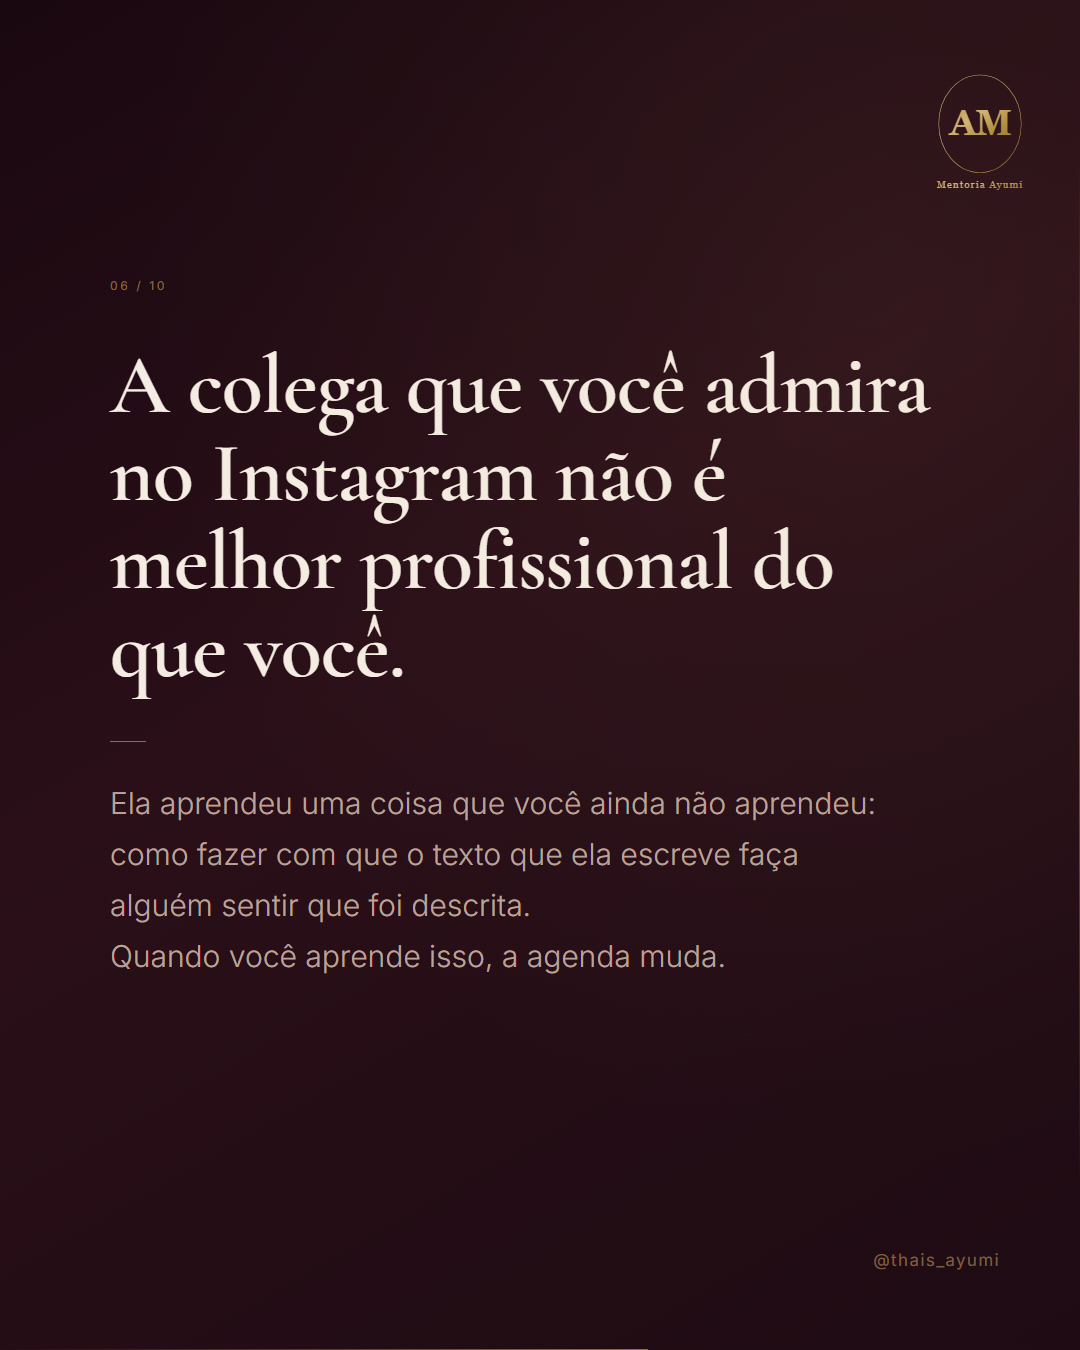
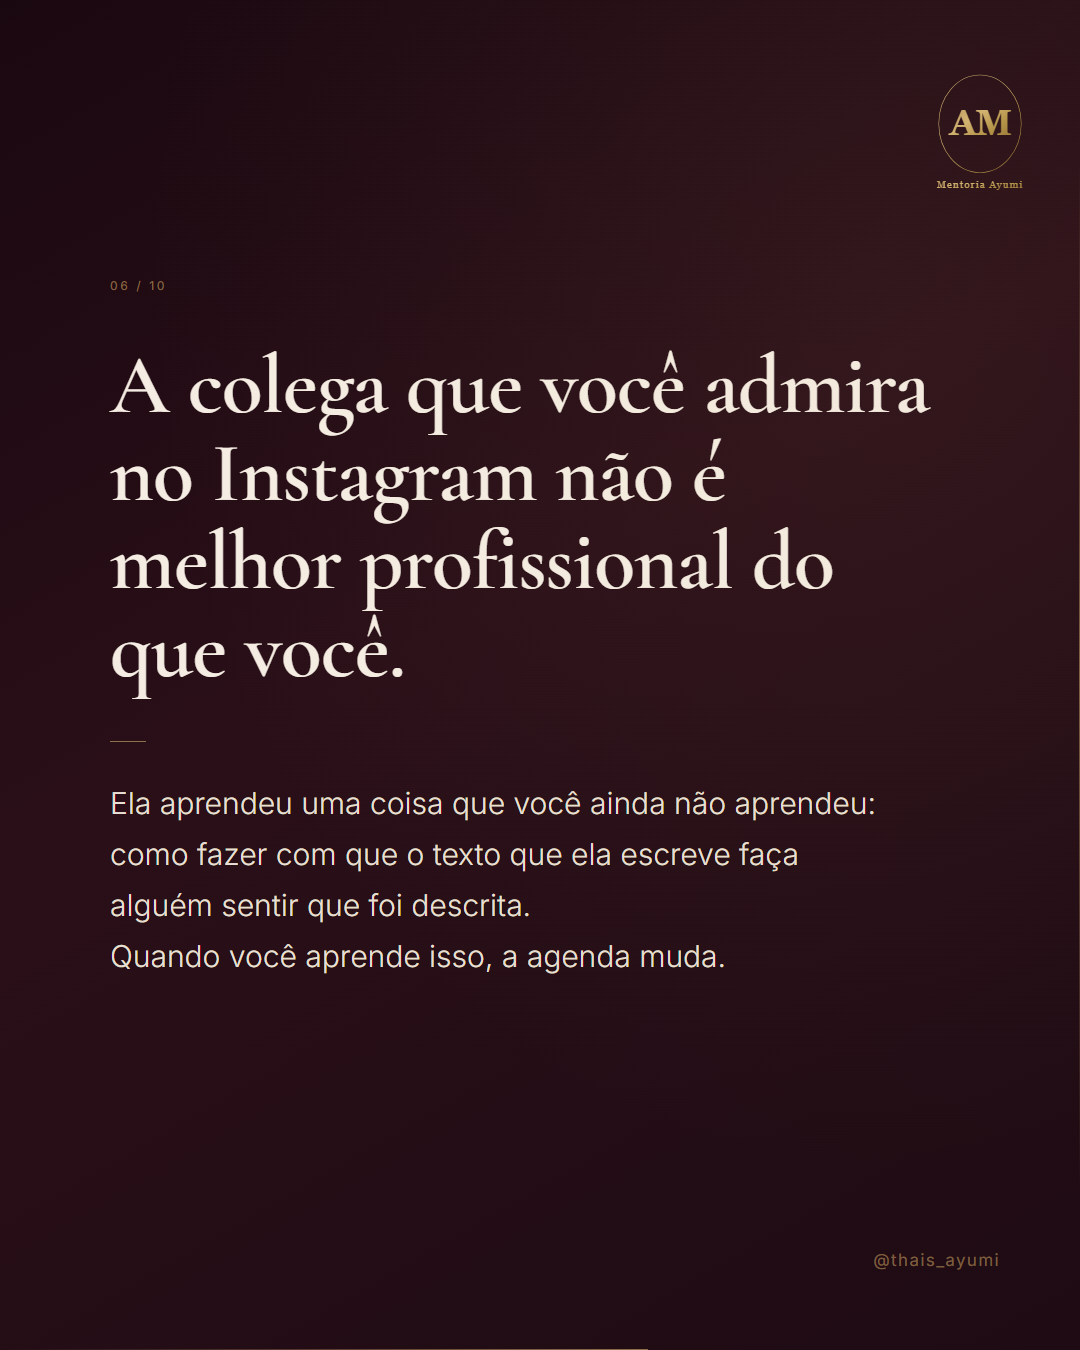
feat: ego-fraco v6 (5 imagens), ayumi texto mais branco, regras viralidade nos sistemas

Changed region(s): [[0.0917, 0.5911, 0.7944, 0.7156], [0.4889, 0.6844, 0.6722, 0.7156]]

diff --git a/carrosseis/index.html b/carrosseis/index.html
@@ -89,21 +89,21 @@ Grupo VIP aberto. Link na bio.
 <!-- ══════════════════════════════════════════════════ -->
 <div class="carrossel" id="ego-fragil">
   <div class="carrossel-header">
-    <h2>@cesaraugustoo__ — Ego Frágil</h2>
-    <button class="btn-todos" onclick="baixarTodos('ego-fragil-v5', 11)">Baixar todos</button>
+    <h2>@cesaraugustoo__ — Ego Fraco v6</h2>
+    <button class="btn-todos" onclick="baixarTodos('ego-fragil-v6', 11)">Baixar todos</button>
   </div>
   <div class="grid">
-    <div class="card"><span class="num">01</span><img src="ego-fragil-v5/slide-01.png" loading="lazy"><a class="btn-dl" href="ego-fragil-v5/slide-01.png" download>Baixar</a></div>
-    <div class="card"><span class="num">02</span><img src="ego-fragil-v5/slide-02.png" loading="lazy"><a class="btn-dl" href="ego-fragil-v5/slide-02.png" download>Baixar</a></div>
-    <div class="card"><span class="num">03</span><img src="ego-fragil-v5/slide-03.png" loading="lazy"><a class="btn-dl" href="ego-fragil-v5/slide-03.png" download>Baixar</a></div>
-    <div class="card"><span class="num">04</span><img src="ego-fragil-v5/slide-04.png" loading="lazy"><a class="btn-dl" href="ego-fragil-v5/slide-04.png" download>Baixar</a></div>
-    <div class="card"><span class="num">05</span><img src="ego-fragil-v5/slide-05.png" loading="lazy"><a class="btn-dl" href="ego-fragil-v5/slide-05.png" download>Baixar</a></div>
-    <div class="card"><span class="num">06</span><img src="ego-fragil-v5/slide-06.png" loading="lazy"><a class="btn-dl" href="ego-fragil-v5/slide-06.png" download>Baixar</a></div>
-    <div class="card"><span class="num">07</span><img src="ego-fragil-v5/slide-07.png" loading="lazy"><a class="btn-dl" href="ego-fragil-v5/slide-07.png" download>Baixar</a></div>
-    <div class="card"><span class="num">08</span><img src="ego-fragil-v5/slide-08.png" loading="lazy"><a class="btn-dl" href="ego-fragil-v5/slide-08.png" download>Baixar</a></div>
-    <div class="card"><span class="num">09</span><img src="ego-fragil-v5/slide-09.png" loading="lazy"><a class="btn-dl" href="ego-fragil-v5/slide-09.png" download>Baixar</a></div>
-    <div class="card"><span class="num">10</span><img src="ego-fragil-v5/slide-10.png" loading="lazy"><a class="btn-dl" href="ego-fragil-v5/slide-10.png" download>Baixar</a></div>
-    <div class="card"><span class="num">11</span><img src="ego-fragil-v5/slide-11.png" loading="lazy"><a class="btn-dl" href="ego-fragil-v5/slide-11.png" download>Baixar</a></div>
+    <div class="card"><span class="num">01</span><img src="ego-fragil-v6/slide-01.png" loading="lazy"><a class="btn-dl" href="ego-fragil-v6/slide-01.png" download>Baixar</a></div>
+    <div class="card"><span class="num">02</span><img src="ego-fragil-v6/slide-02.png" loading="lazy"><a class="btn-dl" href="ego-fragil-v6/slide-02.png" download>Baixar</a></div>
+    <div class="card"><span class="num">03</span><img src="ego-fragil-v6/slide-03.png" loading="lazy"><a class="btn-dl" href="ego-fragil-v6/slide-03.png" download>Baixar</a></div>
+    <div class="card"><span class="num">04</span><img src="ego-fragil-v6/slide-04.png" loading="lazy"><a class="btn-dl" href="ego-fragil-v6/slide-04.png" download>Baixar</a></div>
+    <div class="card"><span class="num">05</span><img src="ego-fragil-v6/slide-05.png" loading="lazy"><a class="btn-dl" href="ego-fragil-v6/slide-05.png" download>Baixar</a></div>
+    <div class="card"><span class="num">06</span><img src="ego-fragil-v6/slide-06.png" loading="lazy"><a class="btn-dl" href="ego-fragil-v6/slide-06.png" download>Baixar</a></div>
+    <div class="card"><span class="num">07</span><img src="ego-fragil-v6/slide-07.png" loading="lazy"><a class="btn-dl" href="ego-fragil-v6/slide-07.png" download>Baixar</a></div>
+    <div class="card"><span class="num">08</span><img src="ego-fragil-v6/slide-08.png" loading="lazy"><a class="btn-dl" href="ego-fragil-v6/slide-08.png" download>Baixar</a></div>
+    <div class="card"><span class="num">09</span><img src="ego-fragil-v6/slide-09.png" loading="lazy"><a class="btn-dl" href="ego-fragil-v6/slide-09.png" download>Baixar</a></div>
+    <div class="card"><span class="num">10</span><img src="ego-fragil-v6/slide-10.png" loading="lazy"><a class="btn-dl" href="ego-fragil-v6/slide-10.png" download>Baixar</a></div>
+    <div class="card"><span class="num">11</span><img src="ego-fragil-v6/slide-11.png" loading="lazy"><a class="btn-dl" href="ego-fragil-v6/slide-11.png" download>Baixar</a></div>
   </div>
   <div class="legenda-box">
     <div class="legenda-label">Legenda do post</div>
